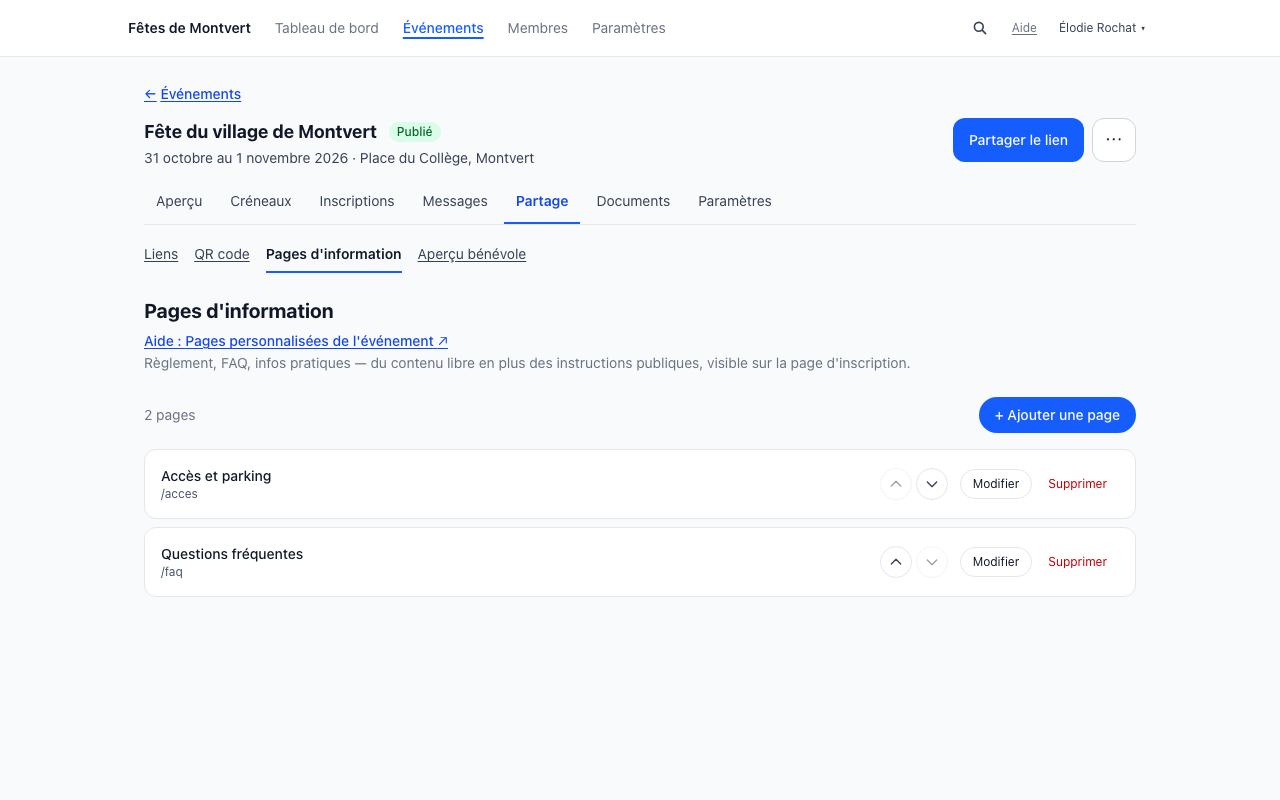
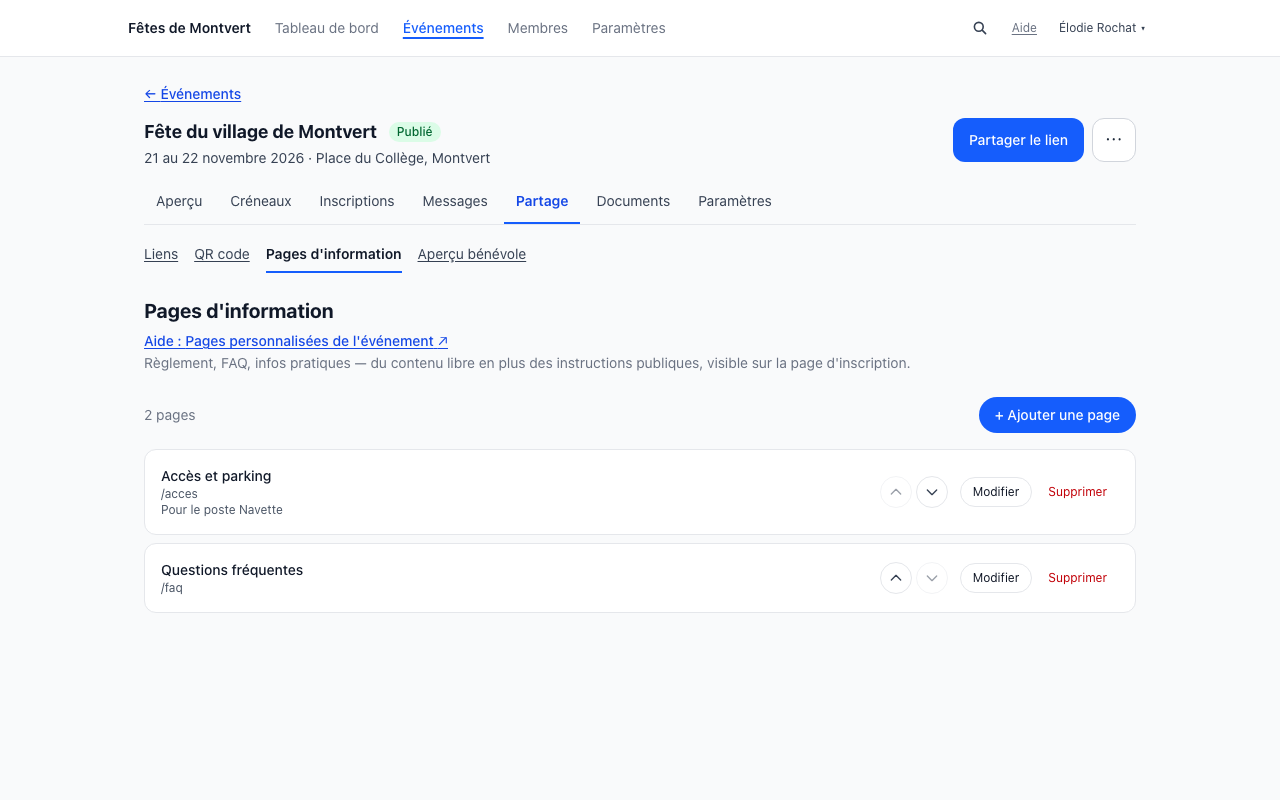
fix(pages): review follow-ups, demo capture and docs (#1324)
- Email: the whole sentence is the link; lists keep their semantics; the
  deleted-postes checkboxes form a named group; clearer public warning.
- Demo seed attaches « Accès et parking » to the poste Navette, and the
  admin-pages capture is regenerated.
- Guides: leaders' page, personal page wording; video to review recorded in
  videos/FINAL_REVIEW_EVIDENCE.md.

doc-img: other captures unchanged

Changed region(s): [[0.125, 0.625, 0.875, 0.75], [0.125, 0.1875, 0.4062, 0.2188], [0.75, 0.5938, 0.875, 0.625]]

diff --git a/src/components/admin/EventPagesManager.tsx b/src/components/admin/EventPagesManager.tsx
@@ -339,7 +339,7 @@ function PageFormModal({
     <ModalShell title={page ? "Modifier la page" : "Nouvelle page"} busy={saving} onClose={() => { if (!saving) onClose() }} panelClassName="max-w-2xl">
       <form onSubmit={submit} noValidate className="space-y-4">
         <p id={publicHintId} className="text-sm text-gray-700 bg-blue-50 border border-blue-100 rounded-xl px-3 py-2">
-          Cette page est publique : tout le monde peut lire son titre et son contenu, pas seulement ces bénévoles.
+          Cette page est publique : tout le monde peut lire son titre et son contenu{postes.length > 0 ? ", pas seulement les bénévoles des postes cochés" : ""}.
         </p>
         <div>
           <label htmlFor={titleId} className="block text-sm text-gray-700 mb-1">Titre<RequiredMark /></label>
@@ -371,14 +371,14 @@ function PageFormModal({
         {postes.length === 0 ? (
           <>
             <p className="text-sm text-gray-700">Cet événement n&apos;a pas encore de poste. Créez des créneaux, puis revenez ici.</p>
-            {/* A name from a poste since deleted still has to be unticked: no fieldset to announce. */}
+            {/* A name from a poste since deleted still has to be unticked: its own small group. */}
             {missing.length > 0 && (
-              <div className="space-y-1">
-                <p className="text-xs text-gray-600">Postes qui n&apos;existent plus : décochez-les pour retirer le lien.</p>
+              <fieldset className="space-y-1">
+                <legend className="text-xs text-gray-600">Postes qui n&apos;existent plus : décochez-les pour retirer le lien.</legend>
                 <ul role="list" className="grid gap-x-4 sm:grid-cols-2">
                   {missing.map((name) => checkbox(name, posteChoiceLabel(name, liveNames)))}
                 </ul>
-              </div>
+              </fieldset>
             )}
           </>
         ) : (
@@ -393,12 +393,12 @@ function PageFormModal({
             </p>
             {groupedCheckboxes}
             {missing.length > 0 && (
-              <div className="mt-2 space-y-1">
-                <p className="text-xs text-gray-600">Postes qui n&apos;existent plus : décochez-les pour retirer le lien.</p>
+              <fieldset className="mt-2 space-y-1">
+                <legend className="text-xs text-gray-600">Postes qui n&apos;existent plus : décochez-les pour retirer le lien.</legend>
                 <ul role="list" className="grid gap-x-4 sm:grid-cols-2">
                   {missing.map((name) => checkbox(name, posteChoiceLabel(name, liveNames)))}
                 </ul>
-              </div>
+              </fieldset>
             )}
           </fieldset>
         )}

diff --git a/scripts/seed-demo.ts b/scripts/seed-demo.ts
@@ -376,7 +376,7 @@ async function main() {
 
   await prisma.eventPage.createMany({
     data: [
-      { eventId: event.id, slug: "acces", title: "Accès et parking", displayOrder: 0, content: "## En transports publics\n\nBus 12, arrêt « Montvert, Collège ».\n\n## En voiture\n\nParking du terrain de foot, à 5 minutes à pied. La navette circule le samedi matin et l'après-midi." },
+      { eventId: event.id, slug: "acces", title: "Accès et parking", displayOrder: 0, roleNames: ["Navette"], content: "## En transports publics\n\nBus 12, arrêt « Montvert, Collège ».\n\n## En voiture\n\nParking du terrain de foot, à 5 minutes à pied. La navette circule le samedi matin et l'après-midi." },
       { eventId: event.id, slug: "faq", title: "Questions fréquentes", displayOrder: 1, content: "**Suis-je assuré·e ?** Oui, par l'assurance de l'association.\n\n**Faut-il une tenue ?** Un t-shirt de la fête vous est remis à l'accueil." },
     ],
   })

diff --git a/src/lib/notifications/templates/shared.ts b/src/lib/notifications/templates/shared.ts
@@ -95,7 +95,7 @@ export function shiftInfoHtml(info: ShiftInfo): string {
   const lines = shiftInfoLines(info)
   const pages = readBeforePages(info)
   if (lines.length === 0 && pages.length === 0) return ""
-  const pagesHtml = pages.map((p) => `<div>${escapeHtml(READ_BEFORE_LABEL)} : <a href="${escapeHtml(p.url)}" style="color:#1d4ed8;text-decoration:underline">${escapeHtml(p.title)}</a></div>`).join("")
+  const pagesHtml = pages.map((p) => `<div><a href="${escapeHtml(p.url)}" style="color:#1d4ed8;text-decoration:underline">${escapeHtml(READ_BEFORE_LABEL)} : ${escapeHtml(p.title)}</a></div>`).join("")
   return `<div style="color:#444;font-size:0.85em;margin-top:4px">${lines.map((l) => `<div>${escapeHtml(l.label)} : ${lineHtml(l, info)}</div>`).join("")}${pagesHtml}</div>`
 }
 

diff --git a/src/lib/notifications/__tests__/templates.test.ts b/src/lib/notifications/__tests__/templates.test.ts
@@ -153,6 +153,8 @@ describe("render — pages to read before the shift (#1324)", () => {
     })
     expect(html.match(/Tenir la caisse/g)).toHaveLength(1)
     expect(html).toContain('style="color:#1d4ed8;text-decoration:underline"')
+    // The whole sentence is the link: it still says what it is in a list of links.
+    expect(html).toMatch(/<a href="https:\/\/asso\.benevol\.app\/fete\/caisse"[^>]*>À lire avant ton créneau : Tenir la caisse<\/a>/)
     expect(text.match(/À lire avant ton créneau : Tenir la caisse : https:\/\/asso\.benevol\.app\/fete\/caisse/g)).toHaveLength(1)
   })
 

diff --git a/src/components/ReadBeforeLinks.tsx b/src/components/ReadBeforeLinks.tsx
@@ -18,5 +18,5 @@ export default function ReadBeforeLinks({ pages, label, className = "" }: { page
     </a>
   )
   if (pages.length === 1) return <p className={className}>{link(pages[0])}</p>
-  return <ul className={`space-y-0.5 ${className}`}>{pages.map((p) => <li key={p.url}>{link(p)}</li>)}</ul>
+  return <ul role="list" className={`space-y-0.5 ${className}`}>{pages.map((p) => <li key={p.url}>{link(p)}</li>)}</ul>
 }

diff --git a/docs/fonctionnalites.md b/docs/fonctionnalites.md
@@ -119,7 +119,7 @@ Liste exhaustive des fonctionnalités de l'application.
 - Lien personnel envoyé par email à un·e bénévole désigné·e responsable d'un poste (ex. « Bar »)
 - Lecture seule : liste des bénévoles inscrits sur ce poste (nom, email, téléphone, commentaire), groupée par créneau
 - Créneaux avec un minimum de personnes (#949) : « 2/4 · minimum atteint » ou « 1/4 · sous le minimum (2) » sous le créneau, et en tête de page la liste des créneaux sous leur minimum, y compris ceux sans aucun inscrit
-- Pages d'information rattachées à un poste du périmètre (#1324) : « Avant les créneaux » liste « À lire avant ton créneau : titre », un lien par page, sans nommer le contenu ; rien pour un événement non publié
+- Pages d'information rattachées à un poste du périmètre (#1324) : le bloc « À lire avant les créneaux » liste le titre de chaque page, un lien par page ; rien pour un événement non publié
 - Pas de compte à créer ni de mot de passe : le lien reste valable pour toute la durée de l'événement
 - Email automatique à chaque nouvelle inscription sur le poste, avec lien vers la liste à jour
 - **Responsable de tout un secteur** (#1169) : `SectorLeader.sectorId` au lieu de `roleName` (contrainte `SectorLeader_scope_check` : exactement l'un des deux ; unicité `(eventId, sectorId, lower(trim(email)))`). La portée est calculée à chaque requête (`src/lib/leader-scope.ts`, `scopeRoleNames`) : les postes dont le secteur actuel (règle majoritaire de `roleSectorOf`, créneaux non annulés) est celui du responsable ; un secteur archivé ne couvre rien. `GET /api/public/leader/[token]` résout la portée avant toute lecture et limite inscriptions et minimums à ces postes (totaux sans autre poste), renvoie `scope`, `heading`, `postes` ; la page groupe par poste (titre avec le nombre de personnes, comptées une fois), filtre **Jour** (région `role="status"` atomique). Titres : « Responsable · Bar » sans secteurs, « Responsable de poste · … » / « Responsable de secteur · … » une fois les secteurs adoptés

diff --git a/content/guide/responsables-de-secteur.md b/content/guide/responsables-de-secteur.md
@@ -23,6 +23,7 @@ Désignez un ou plusieurs bénévoles responsables d'un poste (ex. « Bar »). C
 
   ![Fenêtre « Rendre Camille Rochat responsable » : choix du poste parmi ceux où la personne est inscrite, et email pré-rempli](/doc-img/admin-make-leader-modal.png)
 - Un email est automatiquement envoyé au responsable avec son lien personnel ; il est aussi prévenu à chaque nouvelle inscription sur son poste, et à chaque désistement d'une place confirmée ou d'une demande (paramètre **Prévenir en cas de désistement**, voir [Paramètres et suivi des emails](parametres-et-suivi-des-emails.md#parametres-des-emails)). Si une question aux bénévoles est rattachée à son poste, il reçoit aussi, à la place des organisateurs, les modifications de réponse à cette question, regroupées en un email (voir [Questions aux bénévoles](questions-aux-benevoles.md#rattacher-une-question-a-un-poste))
+- Si une [page d'information](pages-personnalisees.md) est rattachée à son poste, sa page la nomme sous « À lire avant les créneaux » : c'est le lien que ses bénévoles reçoivent avec leur confirmation et leurs rappels
 - **Retirer** un responsable à tout moment (confirmation demandée)
 - Renommer le poste dans **Gérer les postes** emporte ses responsables : leur lien reste le même et affiche le poste sous son nouveau nom. Si une personne était déjà responsable d'un poste portant ce nouveau nom, elle n'y garde qu'une désignation, celle du poste renommé. Supprimer le poste ne retire pas ses responsables : le poste reste affiché avec la mention « Créneaux tous annulés », comme un poste dont vous avez annulé chaque créneau. Leur lien reste valable mais n'affiche plus aucun créneau, et ils ne sont pas repris si vous dupliquez l'événement. Retirez-les si vous ne recréez pas ce poste ; un nouveau créneau de ce poste leur rend leur poste
 - La fiche du bénévole concerné (**Membres**) reçoit automatiquement l'étiquette « responsable »

diff --git a/content/guide/ma-page-personnelle.md b/content/guide/ma-page-personnelle.md
@@ -35,7 +35,7 @@ Un créneau en liste d'attente ou sur validation n'y figure pas tant qu'il n'est
 
 ## Tous mes créneaux
 
-Tes créneaux sont ensuite listés sous **Tous mes créneaux** ; celui de l'encadré y renvoie par un lien. Chacun montre ses **infos pratiques** : lieu de rendez-vous (et **Voir sur la carte**), consigne, et la personne de contact avec son téléphone (pour le créneau repris dans **Avant ta mission**, elles sont dans l'encadré). Si l'organisation a rattaché une page à ton poste, le lien « À lire avant ton créneau : … » apparaît sous ces infos, une fois par page ; il n'apparaît que pour une place confirmée, pas en liste d'attente ni pour une demande en attente de validation.
+Tes créneaux sont ensuite listés sous **Tous mes créneaux** ; celui de l'encadré y renvoie par un lien. Chacun montre ses **infos pratiques** : lieu de rendez-vous (et **Voir sur la carte**), consigne, et la personne de contact avec son téléphone (pour le créneau repris dans **Avant ta mission**, elles sont dans l'encadré). Si l'organisation a rattaché une page à ton poste, le lien « À lire avant ton créneau : … » apparaît sous les infos de chaque créneau de ce poste, un lien par page ; il n'apparaît que pour une place confirmée, pas en liste d'attente ni pour une demande en attente de validation.
 
 ## Pauses et charge
 

diff --git a/videos/FINAL_REVIEW_EVIDENCE.md b/videos/FINAL_REVIEW_EVIDENCE.md
@@ -1077,3 +1077,12 @@ et les empreintes sont sous [batch40](evidence/batch40/review-report.txt).
 Sources éditoriales, manifestes et blocs viewer, recorders et seeds actualisés. Aucun nouveau
 film pour la confirmation par email, aucun fichier sous src/ ou content/guide/ changé,
 renders.json inchangé ; `doc-img: unchanged`. Aucun push, merge ni message ntfy.
+
+## Pages rattachées à un poste (#1324), 14 novembre 2026
+
+Le formulaire d'une page d'information affiche désormais un avertissement « Cette page est
+publique » et un groupe de cases « Pour les bénévoles de ces postes » ; la liste des pages peut
+porter une troisième ligne « Pour le poste … ». Vidéo à revoir, image seulement (narration et
+sélecteurs inchangés, la capture ne coche aucun poste) : `event-program-pages-qr`. Aucune vidéo
+ne montre le lien « À lire avant ton créneau » : les scénarios des vidéos ne rattachent aucune
+page à un poste. Pas de nouveau rendu dans ce changement.

diff --git a/content/guide/pages-personnalisees.md b/content/guide/pages-personnalisees.md
@@ -22,7 +22,7 @@ En complément du champ unique « instructions publiques », ajoutez autant de p
 
 Les pages apparaissent sous forme de liens juste après les instructions publiques, sur la page d'inscription. Une page rattachée à un poste reste dans cette liste ; elle est en plus nommée, par son seul lien, aux bénévoles confirmés de ce poste.
 
-![Pages personnalisées d'un événement (« Accès et parking », « Questions fréquentes »), avec leur adresse et les actions modifier et supprimer](/doc-img/admin-pages.png)
+![Pages personnalisées d'un événement (« Accès et parking », rattachée au poste Navette, et « Questions fréquentes »), avec leur adresse et les actions modifier et supprimer](/doc-img/admin-pages.png)
 
 ## Questions fréquentes
 
